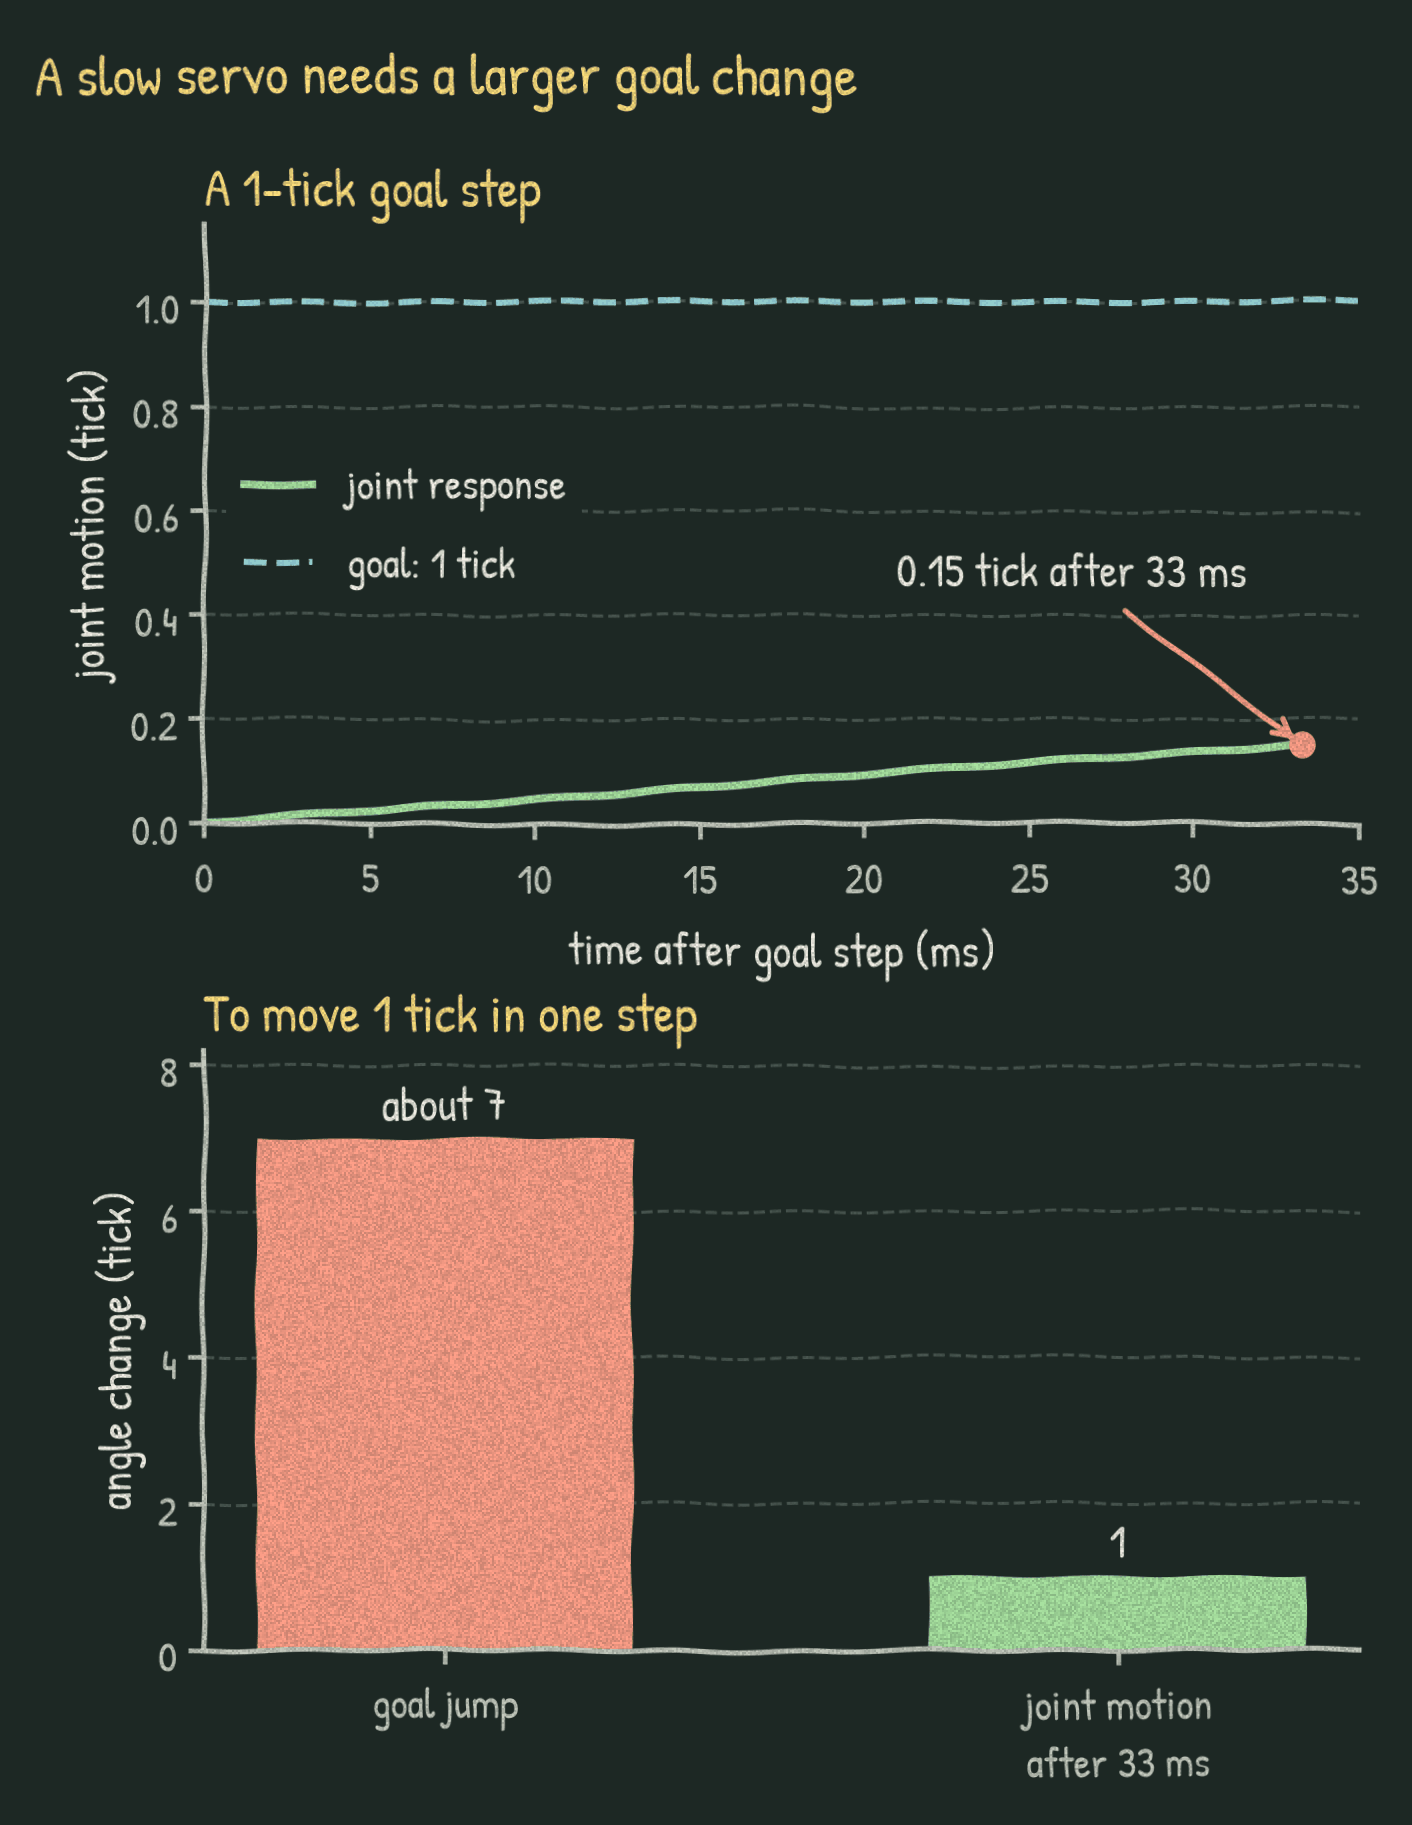
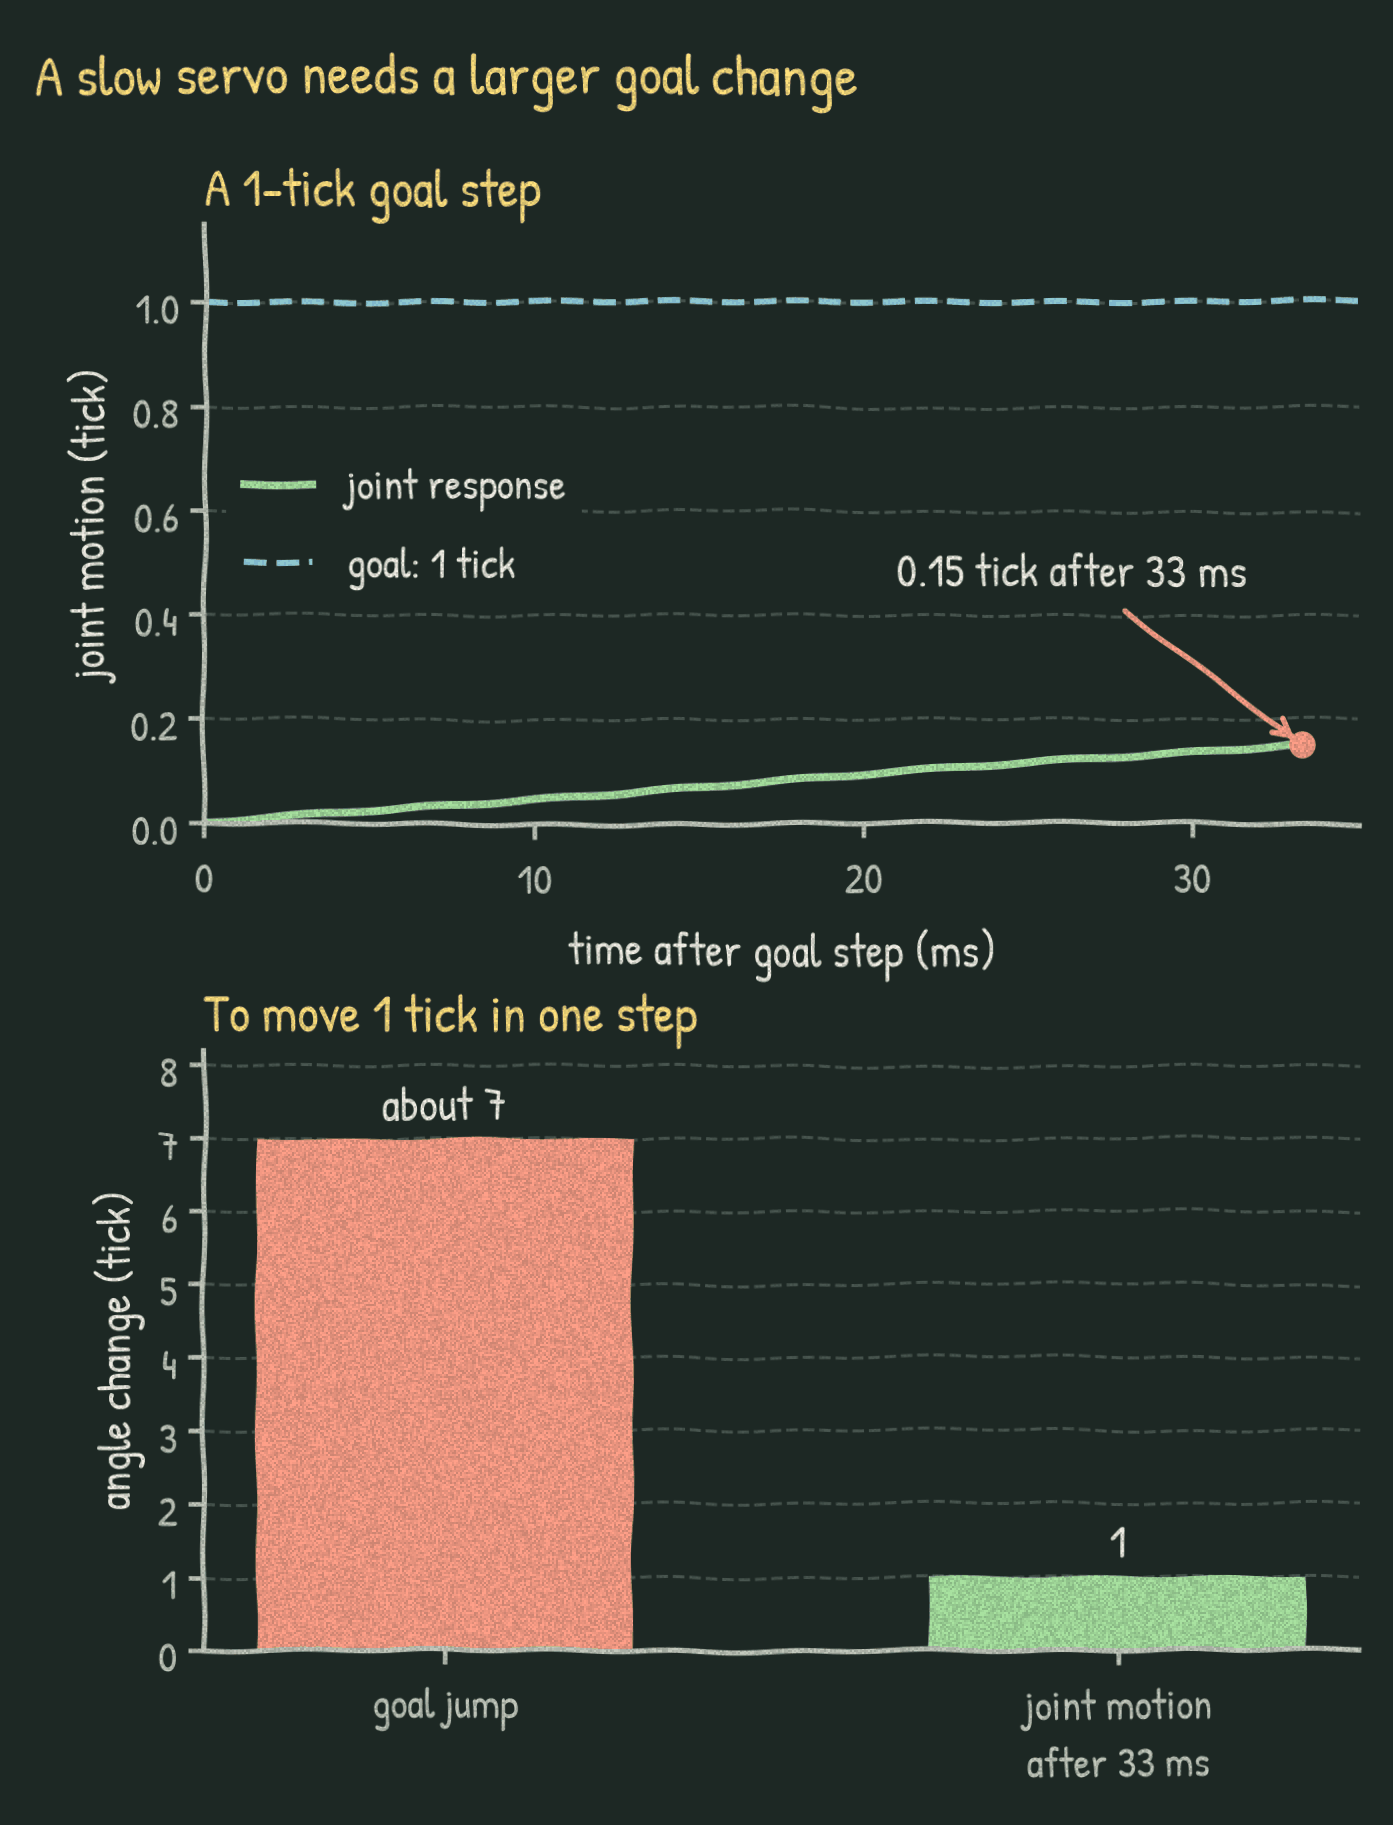
Keep the old ticks of one-step-gain and name stacked panels top and bottom in alt text
tick_rounding also gets a wide layout for the part 2 card thumbnail.

diff --git a/scripts/so101_part2_figures.py b/scripts/so101_part2_figures.py
@@ -19,12 +19,13 @@ def chalk_box(ax, xy, width, height, text, edge, face=BOARD):
             color=INK, linespacing=0.95, zorder=3)
 
 
-def tick_rounding():
+def tick_rounding(card=False, out=None):
+    """card=True draws the same figure in a wide layout for the 720 x 424 card thumbnail, saved to out."""
     time = np.linspace(0, 10, 1001)
     true_angle = time * 0.8 + 0.1
     reading = np.round(true_angle)
     error = reading - true_angle
-    fig, axes = plt.subplots(2, 1, figsize=(6.4, 6.6), sharex=True,
+    fig, axes = plt.subplots(2, 1, figsize=(8.6, 5.6) if card else (6.4, 6.6), sharex=True,
                              gridspec_kw={"height_ratios": [1.1, 1]})
     axes[0].plot(time, true_angle, color=BLUE, label="true angle")
     axes[0].step(time, reading, where="mid", color=ORANGE, lw=2.2,
@@ -46,10 +47,14 @@ def tick_rounding():
                  transform=axes[1].transAxes, ha="right", va="top", color=INK)
     for ax in axes:
         ax.grid(True, axis="y")
-    fig.suptitle("Encoder rounding creates a\nbounded reading error", x=0.03, y=0.985,
-                 ha="left", va="top", color=YELLOW)
-    fig.subplots_adjust(left=0.15, right=0.97, top=0.85, bottom=0.10, hspace=0.18)
-    save_figure(fig, "tick-rounding.png")
+    title = "Encoder rounding creates a{}bounded reading error".format(" " if card else "\n")
+    fig.suptitle(title, x=0.03, y=0.985, ha="left", va="top", color=YELLOW)
+    fig.subplots_adjust(left=0.12 if card else 0.15, right=0.97, top=0.89 if card else 0.85,
+                        bottom=0.12 if card else 0.10, hspace=0.18)
+    if card:
+        chalk.save(fig, out)
+    else:
+        save_figure(fig, "tick-rounding.png")
 
 
 def accel_pipelines():
@@ -92,6 +97,7 @@ def one_step_gain():
                      textcoords="offset points", ha="right", color=INK,
                      arrowprops={"arrowstyle": "->", "color": ORANGE, "lw": 1.8})
     axes[0].set_xlim(0, 35)
+    axes[0].set_xticks([0, 10, 20, 30])
     axes[0].set_ylim(0, 1.15)
     axes[0].set_xlabel("time after goal step (ms)")
     axes[0].set_ylabel("joint motion (tick)")
@@ -102,6 +108,7 @@ def one_step_gain():
     axes[1].bar([0, 1], [7, 1], width=0.56, color=[ORANGE, TEAL])
     axes[1].set_xticks([0, 1], ["goal jump", "joint motion\nafter 33 ms"])
     axes[1].set_ylim(0, 8.2)
+    axes[1].set_yticks(range(0, 9))
     axes[1].set_ylabel("angle change (tick)")
     axes[1].set_title("To move 1 tick in one step")
     axes[1].text(0, 7.25, "about 7", ha="center", color=INK)

diff --git a/content/robotics/so101-4-learning-what-physics-misses.md b/content/robotics/so101-4-learning-what-physics-misses.md
@@ -131,7 +131,7 @@ $$
 
 $\hat d$ is the missing torque that the Kalman filter estimates, and $r_\theta$ is a small recurrent network with weights $\theta$. It reads the recent readings, goals and targets, and outputs a torque for each joint. The controller still chooses the goal by search through the whole model, so the network changes what the controller predicts, not what it sends. If the network learns nothing, the controller is the physics controller again.
 
-![Left: a frozen servo model with an observer plus a small recurrent network (GRU) that learns the residual give a combined prediction. Right: offline and stand-in closed-loop errors: network only 3.90 and 5.50 mrad, servo model with observer 3.70 and 2.76, residual 3.01 and 3.12.](/assets/robotics/so101-series/residual.png "First try: the residual helps offline, and the physics model alone still wins in the stand-in closed loop.")
+![Top: a frozen servo model with an observer plus a small recurrent network (GRU) that learns the residual give a combined prediction. Bottom: offline and stand-in closed-loop errors: network only 3.90 and 5.50 mrad, servo model with observer 3.70 and 2.76, residual 3.01 and 3.12.](/assets/robotics/so101-series/residual.png "First try: the residual helps offline, and the physics model alone still wins in the stand-in closed loop.")
 
 ### The same job as the Kalman disturbance
 

diff --git a/content/robotics/so101-2-finer-than-the-sensor.md b/content/robotics/so101-2-finer-than-the-sensor.md
@@ -80,7 +80,7 @@ Partly. The model-based controllers avoid it, because `inv`, `solve` and `mpc` t
 
 ### A second amplifier: the one-step inverse
 
-![Left: after a goal step of one tick, the joint moves only 0.15 tick in 33 ms. Right: to move one tick in one step, the goal has to jump about 7 ticks.](/assets/robotics/so101-series/one-step-gain.png "One goal tick moves the joint about 0.15 tick in one step, so a one-step inverse multiplies errors by about 7.")
+![Top: after a goal step of one tick, the joint moves only 0.15 tick in 33 ms. Bottom: to move one tick in one step, the goal has to jump about 7 ticks.](/assets/robotics/so101-series/one-step-gain.png "One goal tick moves the joint about 0.15 tick in one step, so a one-step inverse multiplies errors by about 7.")
 
 There's another way to amplify noise, and this one shows up in almost all of my controllers. A one-step inverse asks which goal will put the joint on the target at the next step. The difficulty is that the servo responds slowly. In the simulator, moving the goal by one tick moves the joint by only 0.14 to 0.17 tick in one 33 ms step. The reason is that one goal tick only adds 13.64 × 0.001534 = 0.021 N·m of torque, and that torque first has to accelerate the arm against the damping, with a servo time constant of 78 ms, longer than two steps.
 
